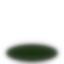
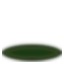
Redisign

diff --git a/WarriorPlayerPointer.cpp b/WarriorPlayerPointer.cpp
@@ -24,7 +24,7 @@
 WarriorPlayerPointer::WarriorPlayerPointer(float xInPixels, float yInPixels, bool color) {
     this->sprite.setPosition(xInPixels, yInPixels);
     if (!color) {
-        this->sprite.setColor(sf::Color(255, 255, 255, 75));
+        this->sprite.setColor(sf::Color(255, 255, 255, 25));
     }
 }
 void WarriorPlayerPointer::draw(sf::RenderTarget &target, sf::RenderStates states) const {
